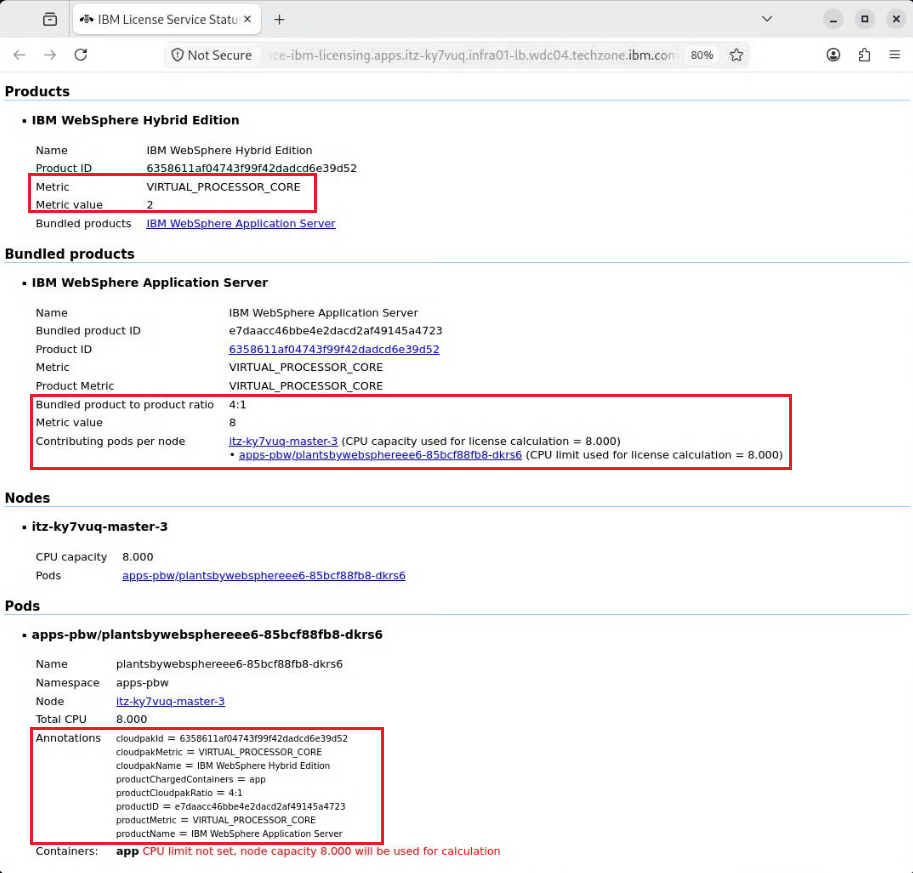
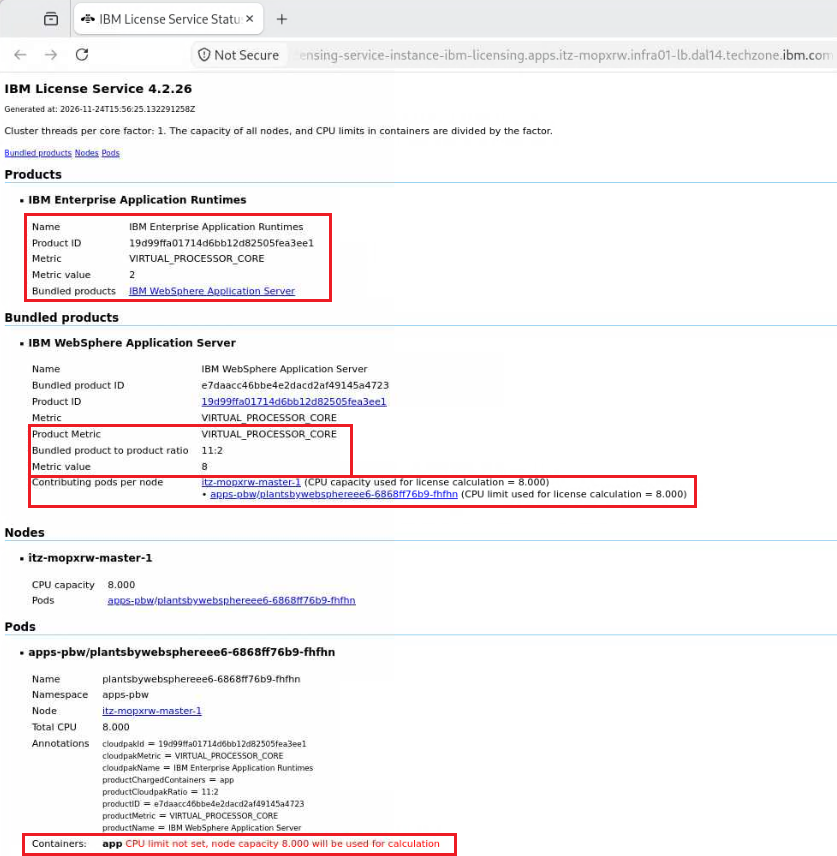
Update ILS part 4

diff --git a/ILS_README.md b/ILS_README.md
@@ -592,10 +592,9 @@ Start from scratch without any deployment:
     ![ILS_Status-Page-2WLP-noLimit.png](./images/media/ILS_Status-Page-2WLP-noLimit.png)
     
     - The product is annotated for WebSphere Application Server but now based on VPCs.
-    - The node has 8 cores
-    - A CPU limit is not set, so the whole worker node will be licensed.
-    - WAS Base has the ratio 11:2 within IBM Enterprise Application Runtimes (EAR), which means 11 deployed cores require 2 VPC of EAR. 
-    - As the whole worker node must be licensed and the ratio 4:1 is applied, the metric value is 2.
+    - A CPU limit is not set, so the whole worker node (8 cores) will be licensed. This results in a WAS metric value of 8.
+    - WAS Base has the ratio 11:2 within IBM Enterprise Application Runtimes (EAR), which means 11 deployed cores require 2 VPC of EAR.
+    - As 8 WAS cores must be licensed and the ratio 11:2 is applied, the EAR metric value is 2.
 
 8. Add a cpu limit to avoid that the whole worker node must be licensed.
 
